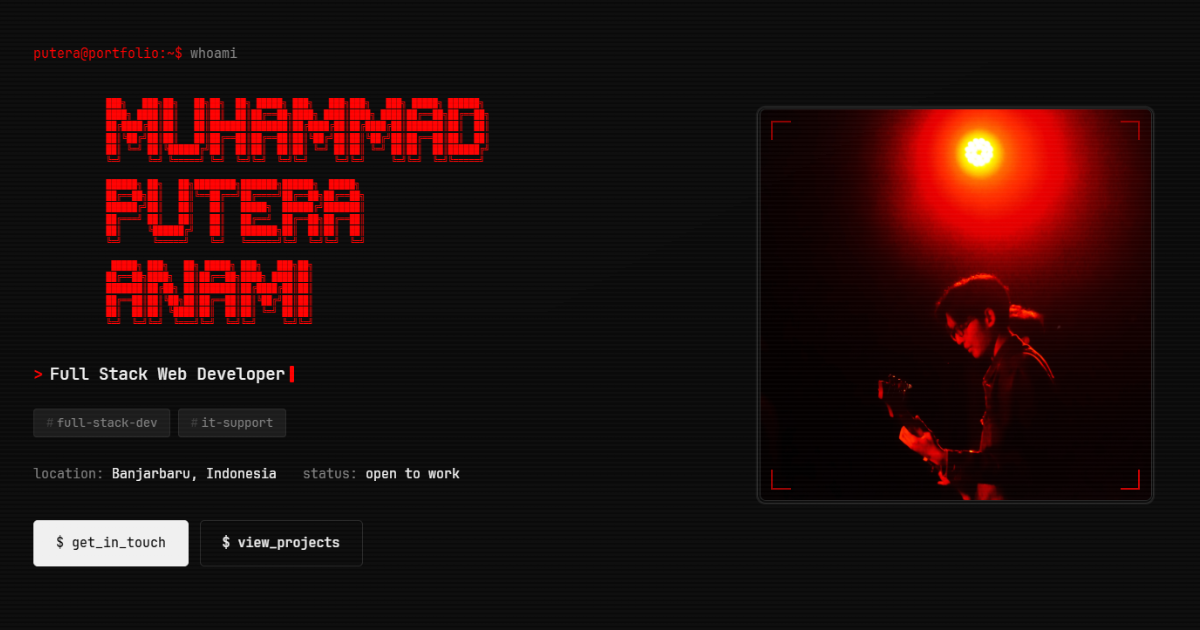
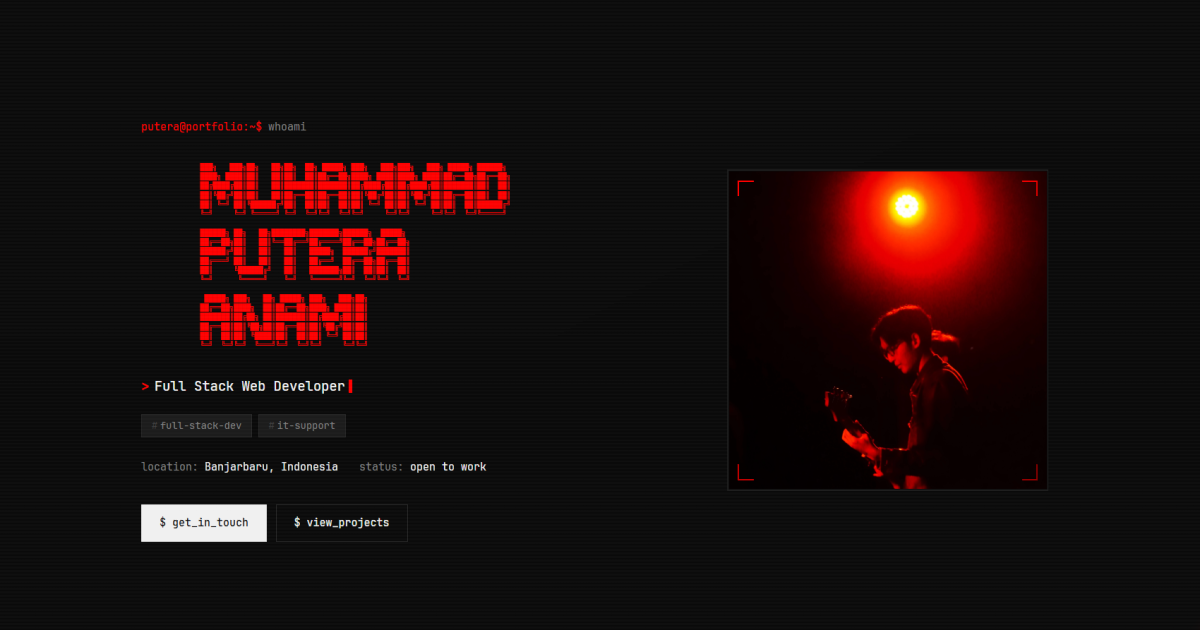
update: ganti photo sama preview

diff --git a/index.html b/index.html
@@ -163,7 +163,7 @@
           <div class="photo-wrap fade-in">
             <div class="photo-frame">
               <div class="photo-avatar">
-                <img src="assets/images/photo.jpg" alt="Putera Anami Photo" />
+                <img src="assets/images/photo.webp" alt="Putera Anami Photo" />
               </div>
               <div class="photo-scan"></div>
               <div class="photo-corner pc-tl"></div>
